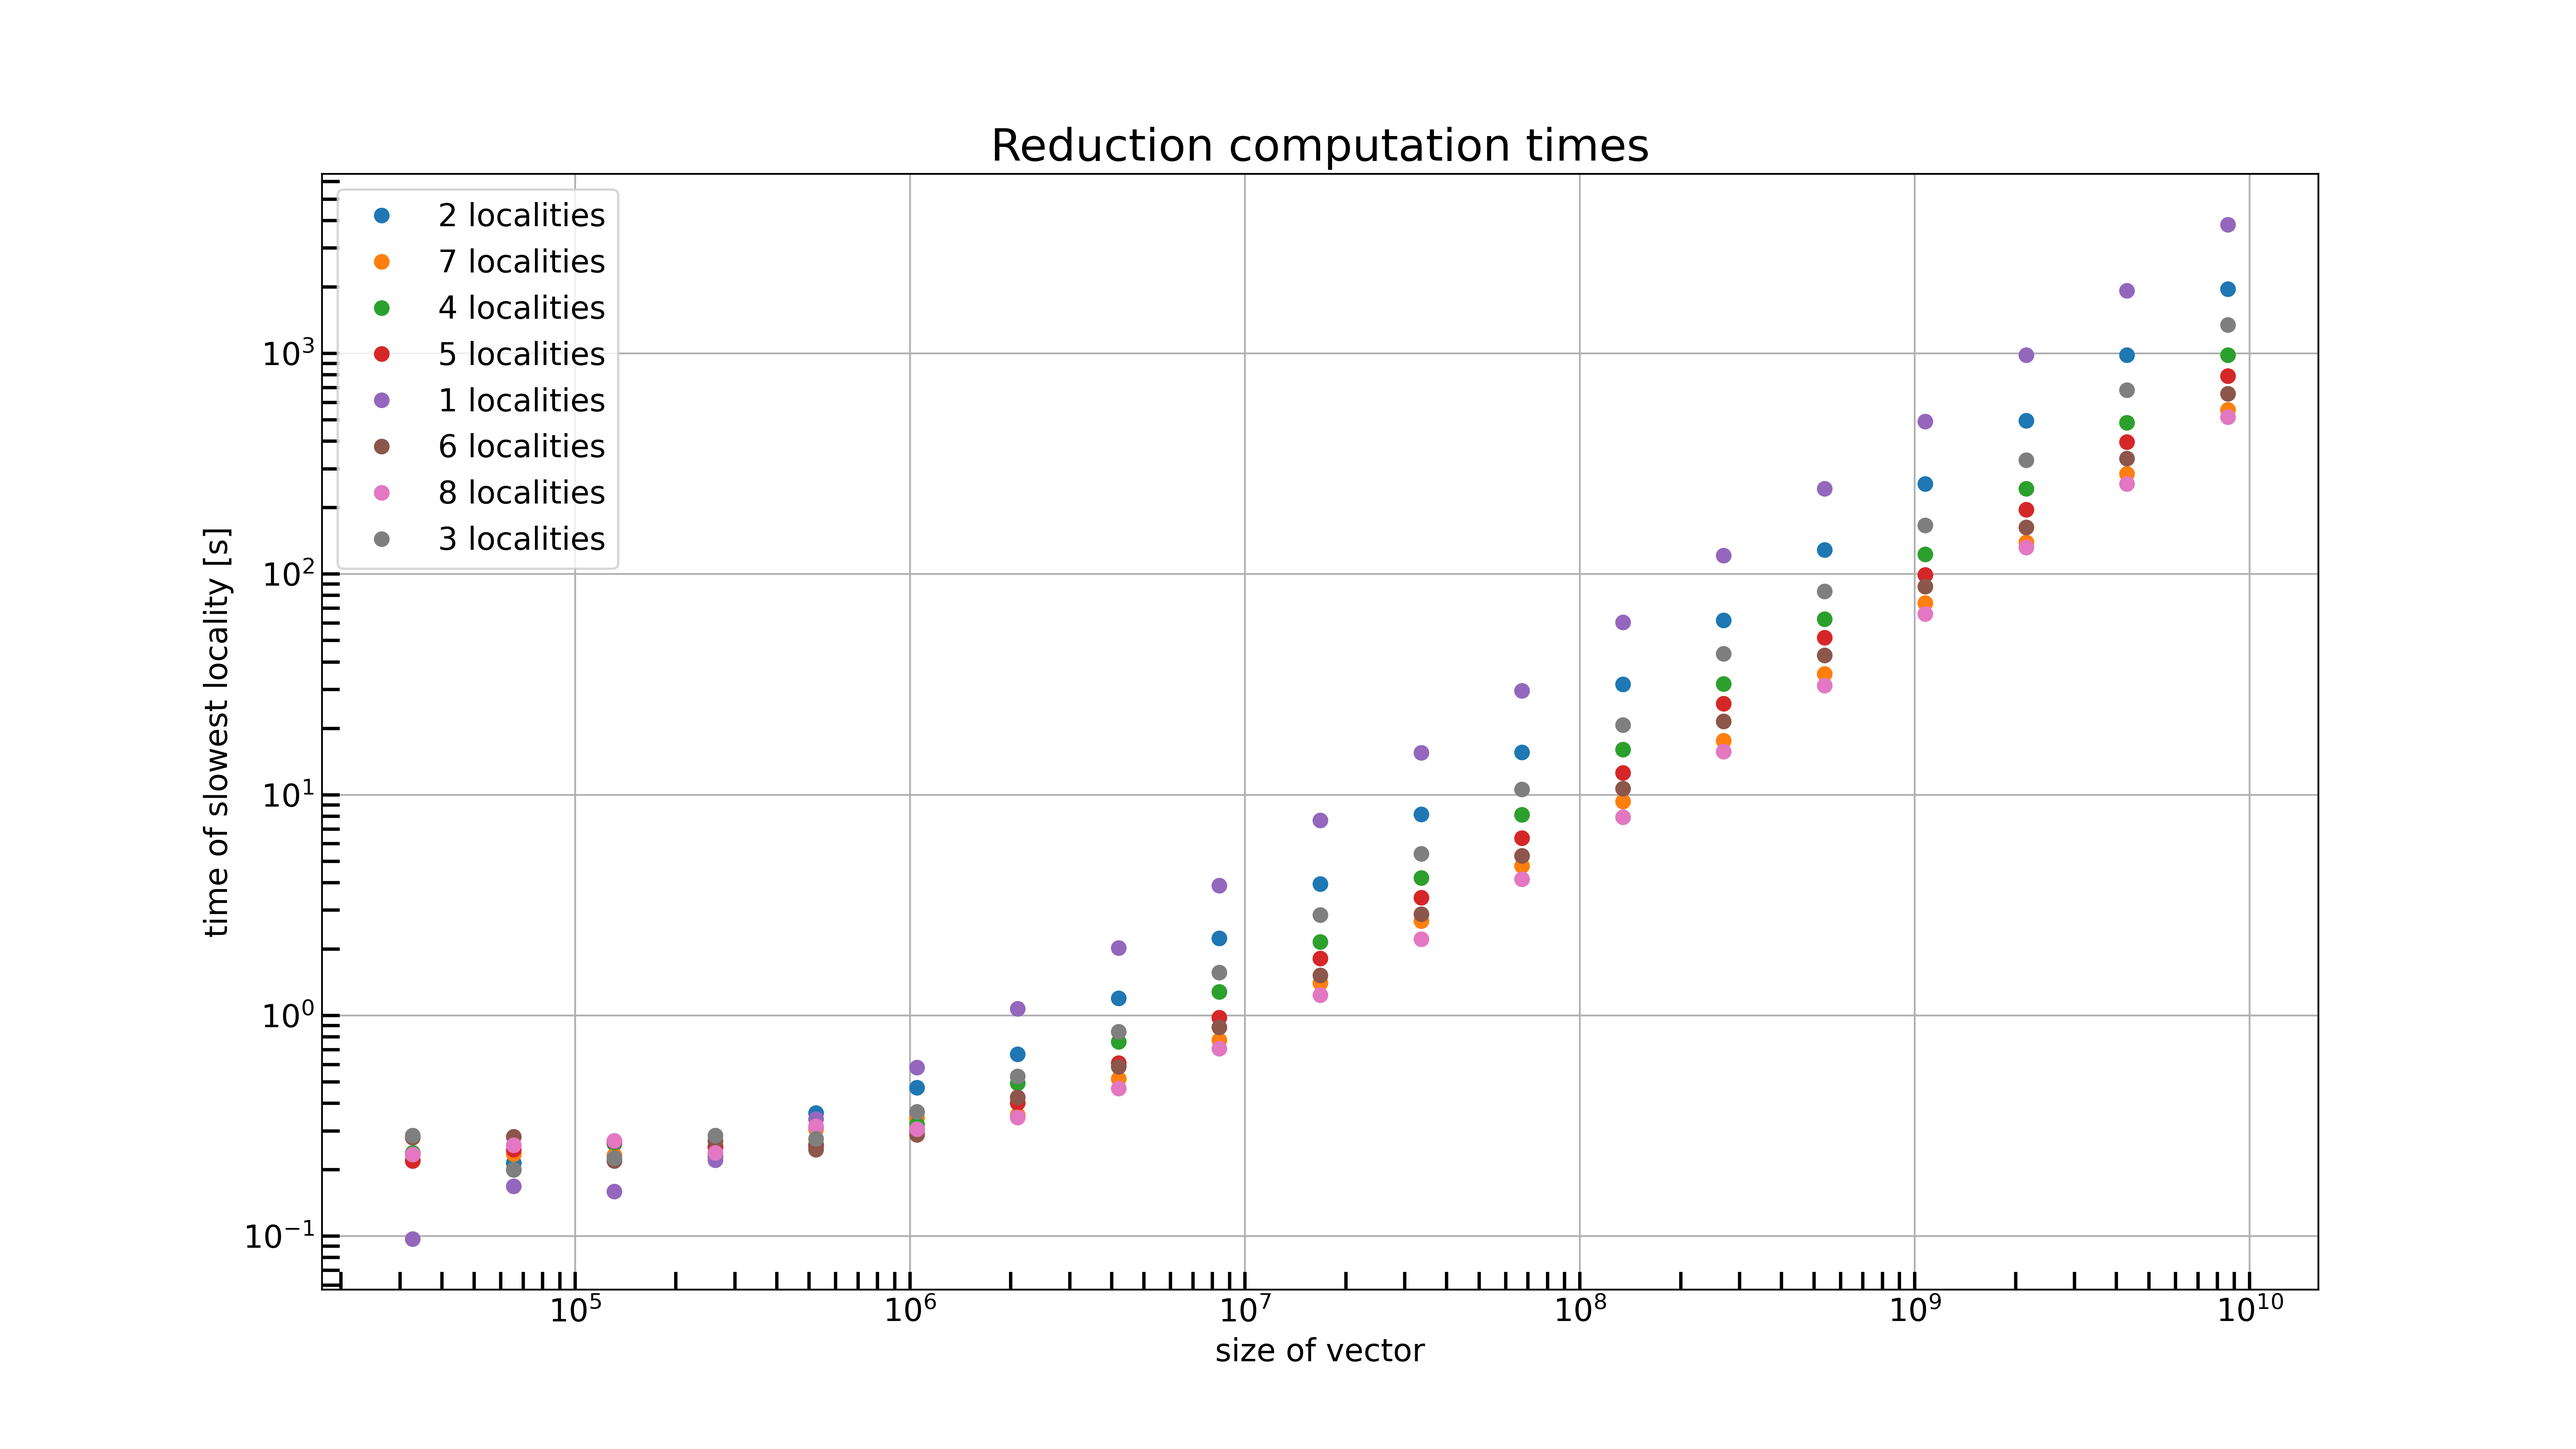
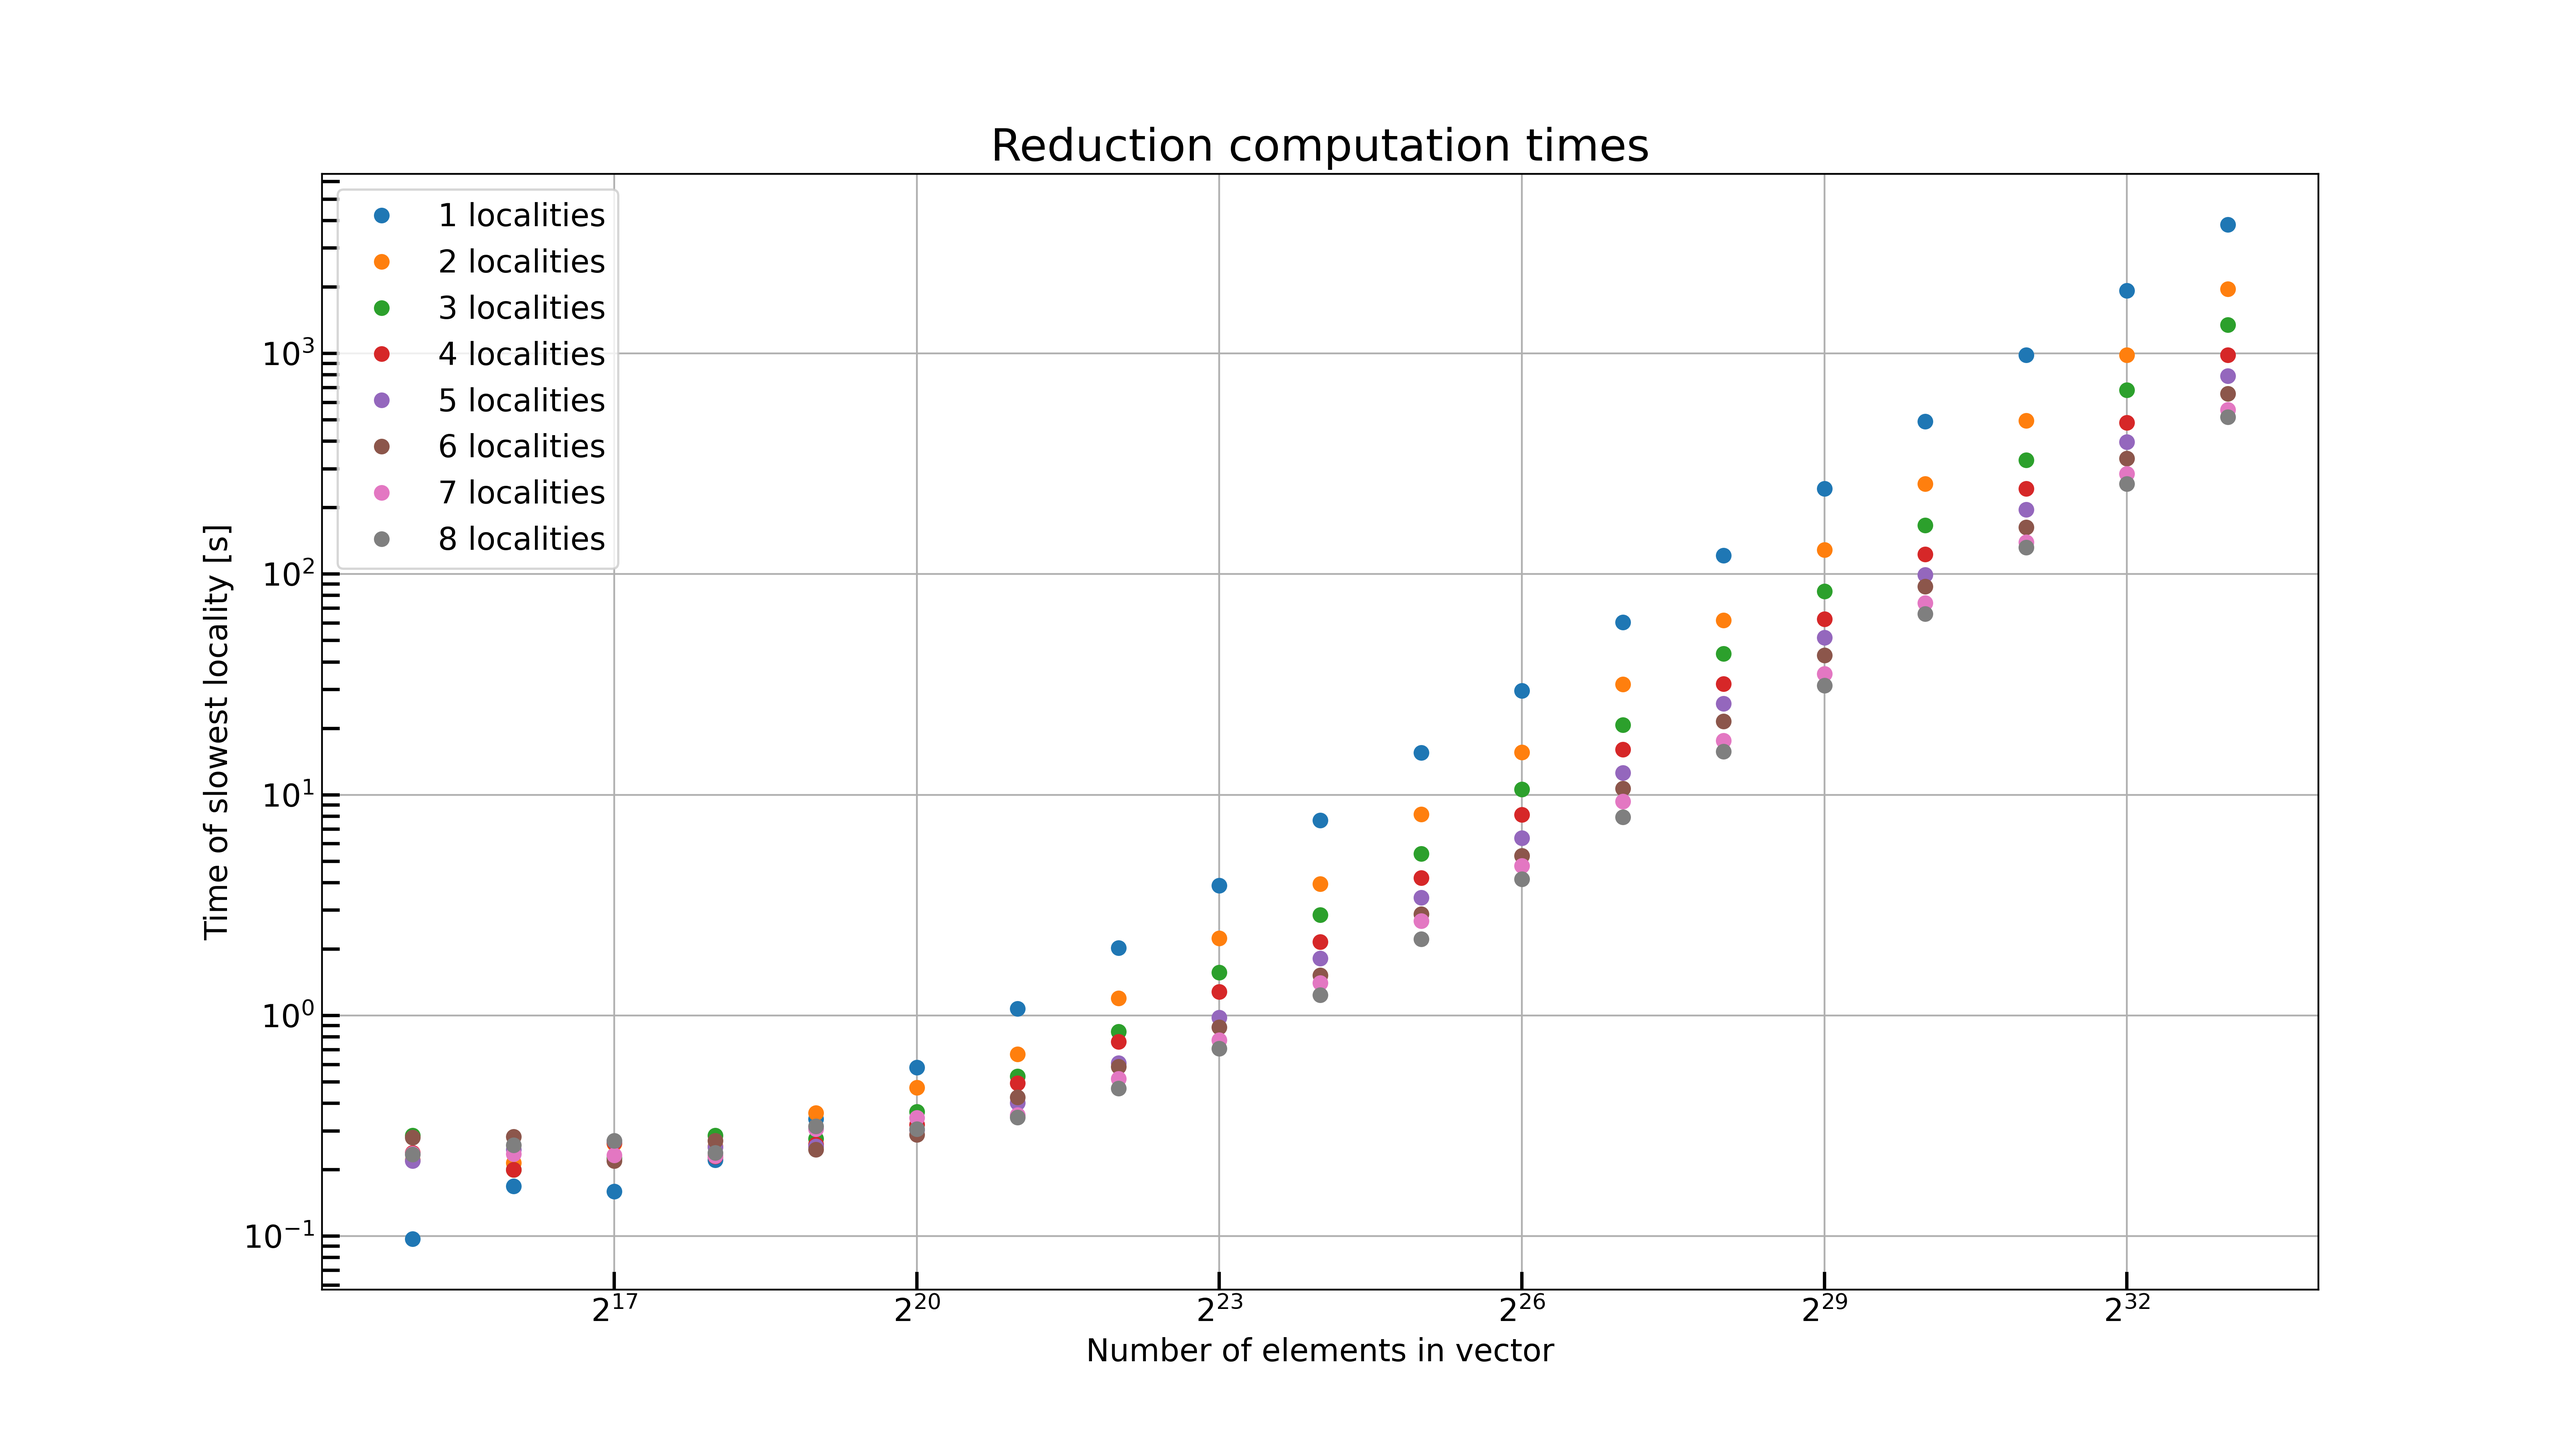
Bandbidth diagram added now plots are in ascedning order of localities so that all the colors match

diff --git a/plots/plot.py b/plots/plot.py
@@ -5,6 +5,7 @@ import math
 import re
 import os
 import glob
+from numpy import argsort
 
 patternForScientificNumbers = r'([+\-]?(?:0|[1-9]\d*)(?:\.\d+)?(?:[eE][+\-]?\d+)?)'
 patternForIntegers = r'[-]?\d+'
@@ -61,14 +62,15 @@ def plottingTime(name: str, filePath: str, fileNames: str):
 	plt.yticks(fontsize=14)
 	plt.tick_params(axis='y', which='both', direction='in', length=8, width=1.5)
 	plt.title((capitalName + " computation times"), fontsize=20)
-	plt.xscale("log")
-	plt.yscale("log")
-	plt.xlabel("size of vector", fontsize=14)
-	plt.ylabel("time of slowest locality [s]", fontsize=14)
+	plt.xscale("log", base=2)
+	plt.yscale("log", base=10)
+	plt.xlabel("Number of elements in vector", fontsize=14)
+	plt.ylabel("Time of slowest locality [s]", fontsize=14)
 	plt.grid()
 
 	vectorSizes = []
 	times = []
+	numbers = []
 	labelStrings = []
 	# Extract the data and save it into a 2D list
 	for fileName in fileNames:
@@ -81,11 +83,14 @@ def plottingTime(name: str, filePath: str, fileNames: str):
 
 		# Create the correct label for the data
 		number = int(re.search(patternForIntegers, fileName).group())
+		numbers.append(number)
 		labelString = str(number) + " localities"
 		labelStrings.append(labelString)
 
-	for i in range(len(vectorSizes)):
-
+	# Plot the results in asending order of #localyties
+	numberIndices = argsort(numbers)
+				  
+	for i in numberIndices:
 		plt.plot(vectorSizes[i],
 				 times[i],
 				 marker='o',
@@ -104,14 +109,15 @@ def plottingSpeedup(name: str, filePath: str, fileNames: str):
 	plt.yticks(fontsize=14)
 	plt.tick_params(axis='y', which='both', direction='in', length=8, width=1.5)
 	plt.title((capitalName + " speedup"), fontsize=20)
-	plt.xscale("log")
+	plt.xscale("log", base=2)
 	#plt.yscale("log")
-	plt.xlabel("size of vector", fontsize=14)
-	plt.ylabel("speedup", fontsize=14)
+	plt.xlabel("Number of elements in vector", fontsize=14)
+	plt.ylabel("Speedup T[1] / T[n]", fontsize=14)
 	plt.grid()
 
 	vectorSizes = []
 	times = []
+	numbers = []
 	labelStrings = []
 
 	locality1VectorSize = []
@@ -127,6 +133,7 @@ def plottingSpeedup(name: str, filePath: str, fileNames: str):
 
 		# Create the correct label for the data
 		number = int(re.search(patternForIntegers, fileName).group())
+		numbers.append(number)
 		labelString = str(number) + " localities"
 		labelStrings.append(labelString)
 
@@ -134,8 +141,10 @@ def plottingSpeedup(name: str, filePath: str, fileNames: str):
 			locality1VectorSize = vectorSize
 			locality1Time = time
 
-
-	for i in range(len(vectorSizes)):
+	# Plot the results in asending order of #localyties
+	numberIndices = argsort(numbers)
+				  
+	for i in numberIndices:
 		speedup = [b / a for a, b in zip(times[i], locality1Time)]
 		
 		plt.plot(vectorSizes[i],
@@ -144,8 +153,57 @@ def plottingSpeedup(name: str, filePath: str, fileNames: str):
 				 linestyle='none',
 				 label=labelStrings[i])
 	
+	plt.ylim(bottom=0)
 	plt.legend(fontsize=14)
 	plt.savefig((name + 'Speedup.png'), dpi=400)
+
+def plottingBandwith(name: str, filePath: str, fileNames: str, bytesPerNumber: int):
+	capitalName = name.capitalize()
+
+	plt.figure(figsize=(16, 9))
+	plt.xticks(fontsize=14, rotation=0)
+	plt.tick_params(axis='x', which='both', direction='in', length=8, width=1.5)
+	plt.yticks(fontsize=14)
+	plt.tick_params(axis='y', which='both', direction='in', length=8, width=1.5)
+	plt.title((capitalName + " bandwidth"), fontsize=20)
+	plt.xscale("log", base=2)
+	plt.yscale("log", base=2)
+	plt.xlabel("Number of elements in vector", fontsize=14)
+	plt.ylabel("Bandwidth [bytes/s]", fontsize=14)
+	plt.grid()
+
+	vectorSizes = []
+	times = []
+	numbers = []
+	labelStrings = []
+	# Extract the data and save it into a 2D list
+	for fileName in fileNames:
+		fullFilePathAndName = filePath + fileName
+		with open(fullFilePathAndName, "r") as file:
+			lines = file.readlines()
+		vectorSize, time = extractDataFromLines(lines, capitalName)
+		vectorSizes.append(vectorSize)
+		times.append(time)
+
+		# Create the correct label for the data
+		number = int(re.search(patternForIntegers, fileName).group())
+		numbers.append(number)
+		labelString = str(number) + " localities"
+		labelStrings.append(labelString)
+
+	# Plot the results in asending order of #localyties
+	numberIndices = argsort(numbers)
+				  
+	for i in numberIndices:
+		bandwidth = [a * bytesPerNumber / b for a, b in zip(vectorSizes[i], times[i])]
+		plt.plot(vectorSizes[i],
+				 bandwidth,
+				 marker='o',
+				 linestyle='none',
+				 label=labelStrings[i])
+	
+	plt.legend(fontsize=14)
+	plt.savefig((name + 'Bandwidth.png'), dpi=400)
 
 def plot_all(filePath: str, name: str):
 	searchString = "_nodes.txt"
@@ -160,6 +218,7 @@ def plot_all(filePath: str, name: str):
 
 	plottingTime(name, filePath, fileNames)
 	plottingSpeedup(name, filePath, fileNames)
+	plottingBandwith(name, filePath, fileNames, 4)
 
 
 
